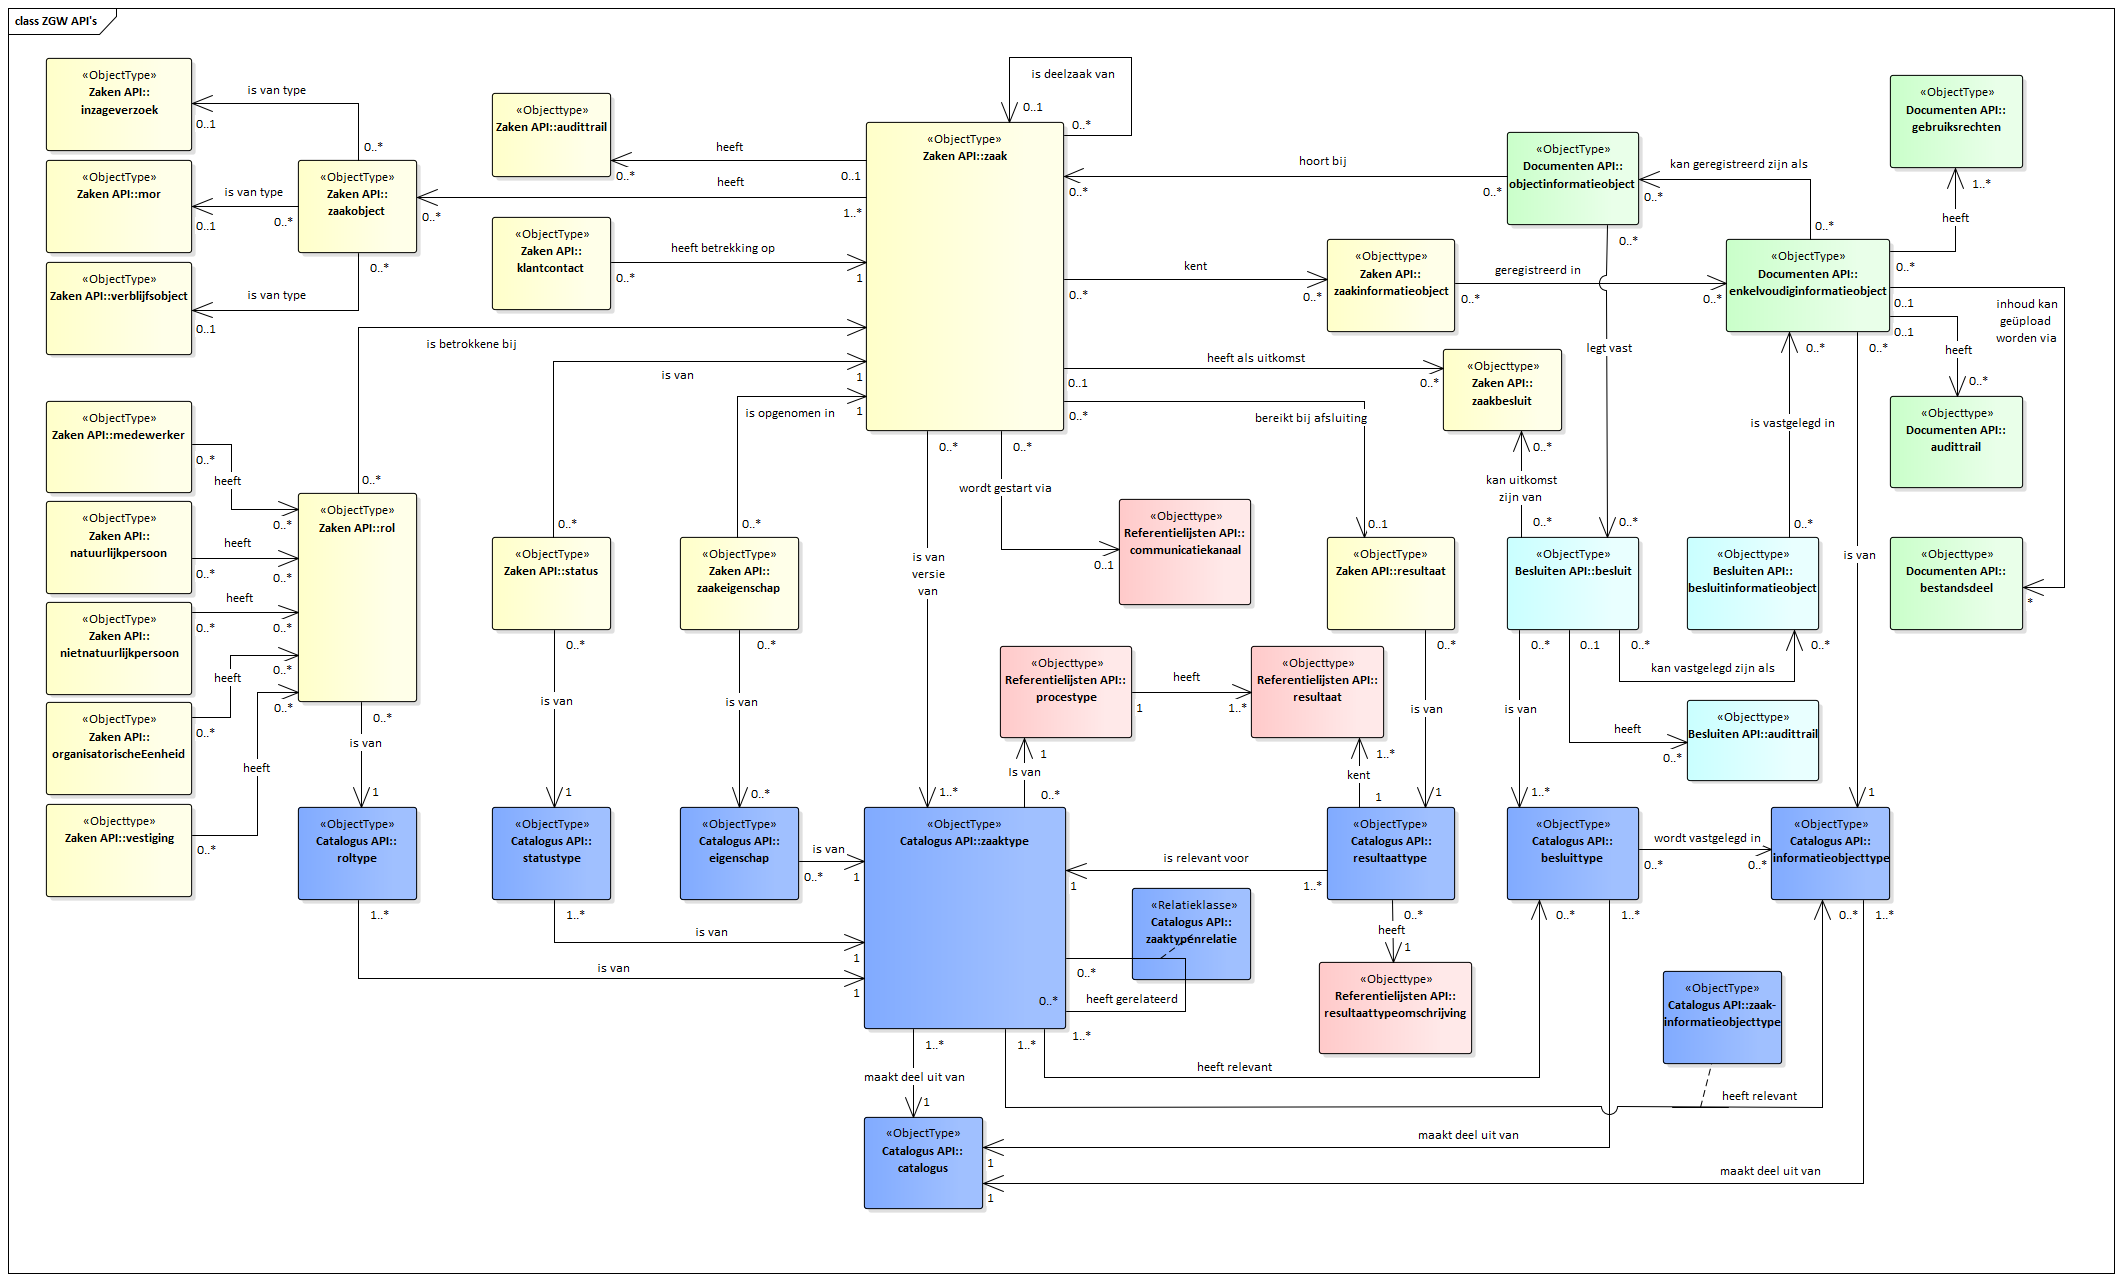
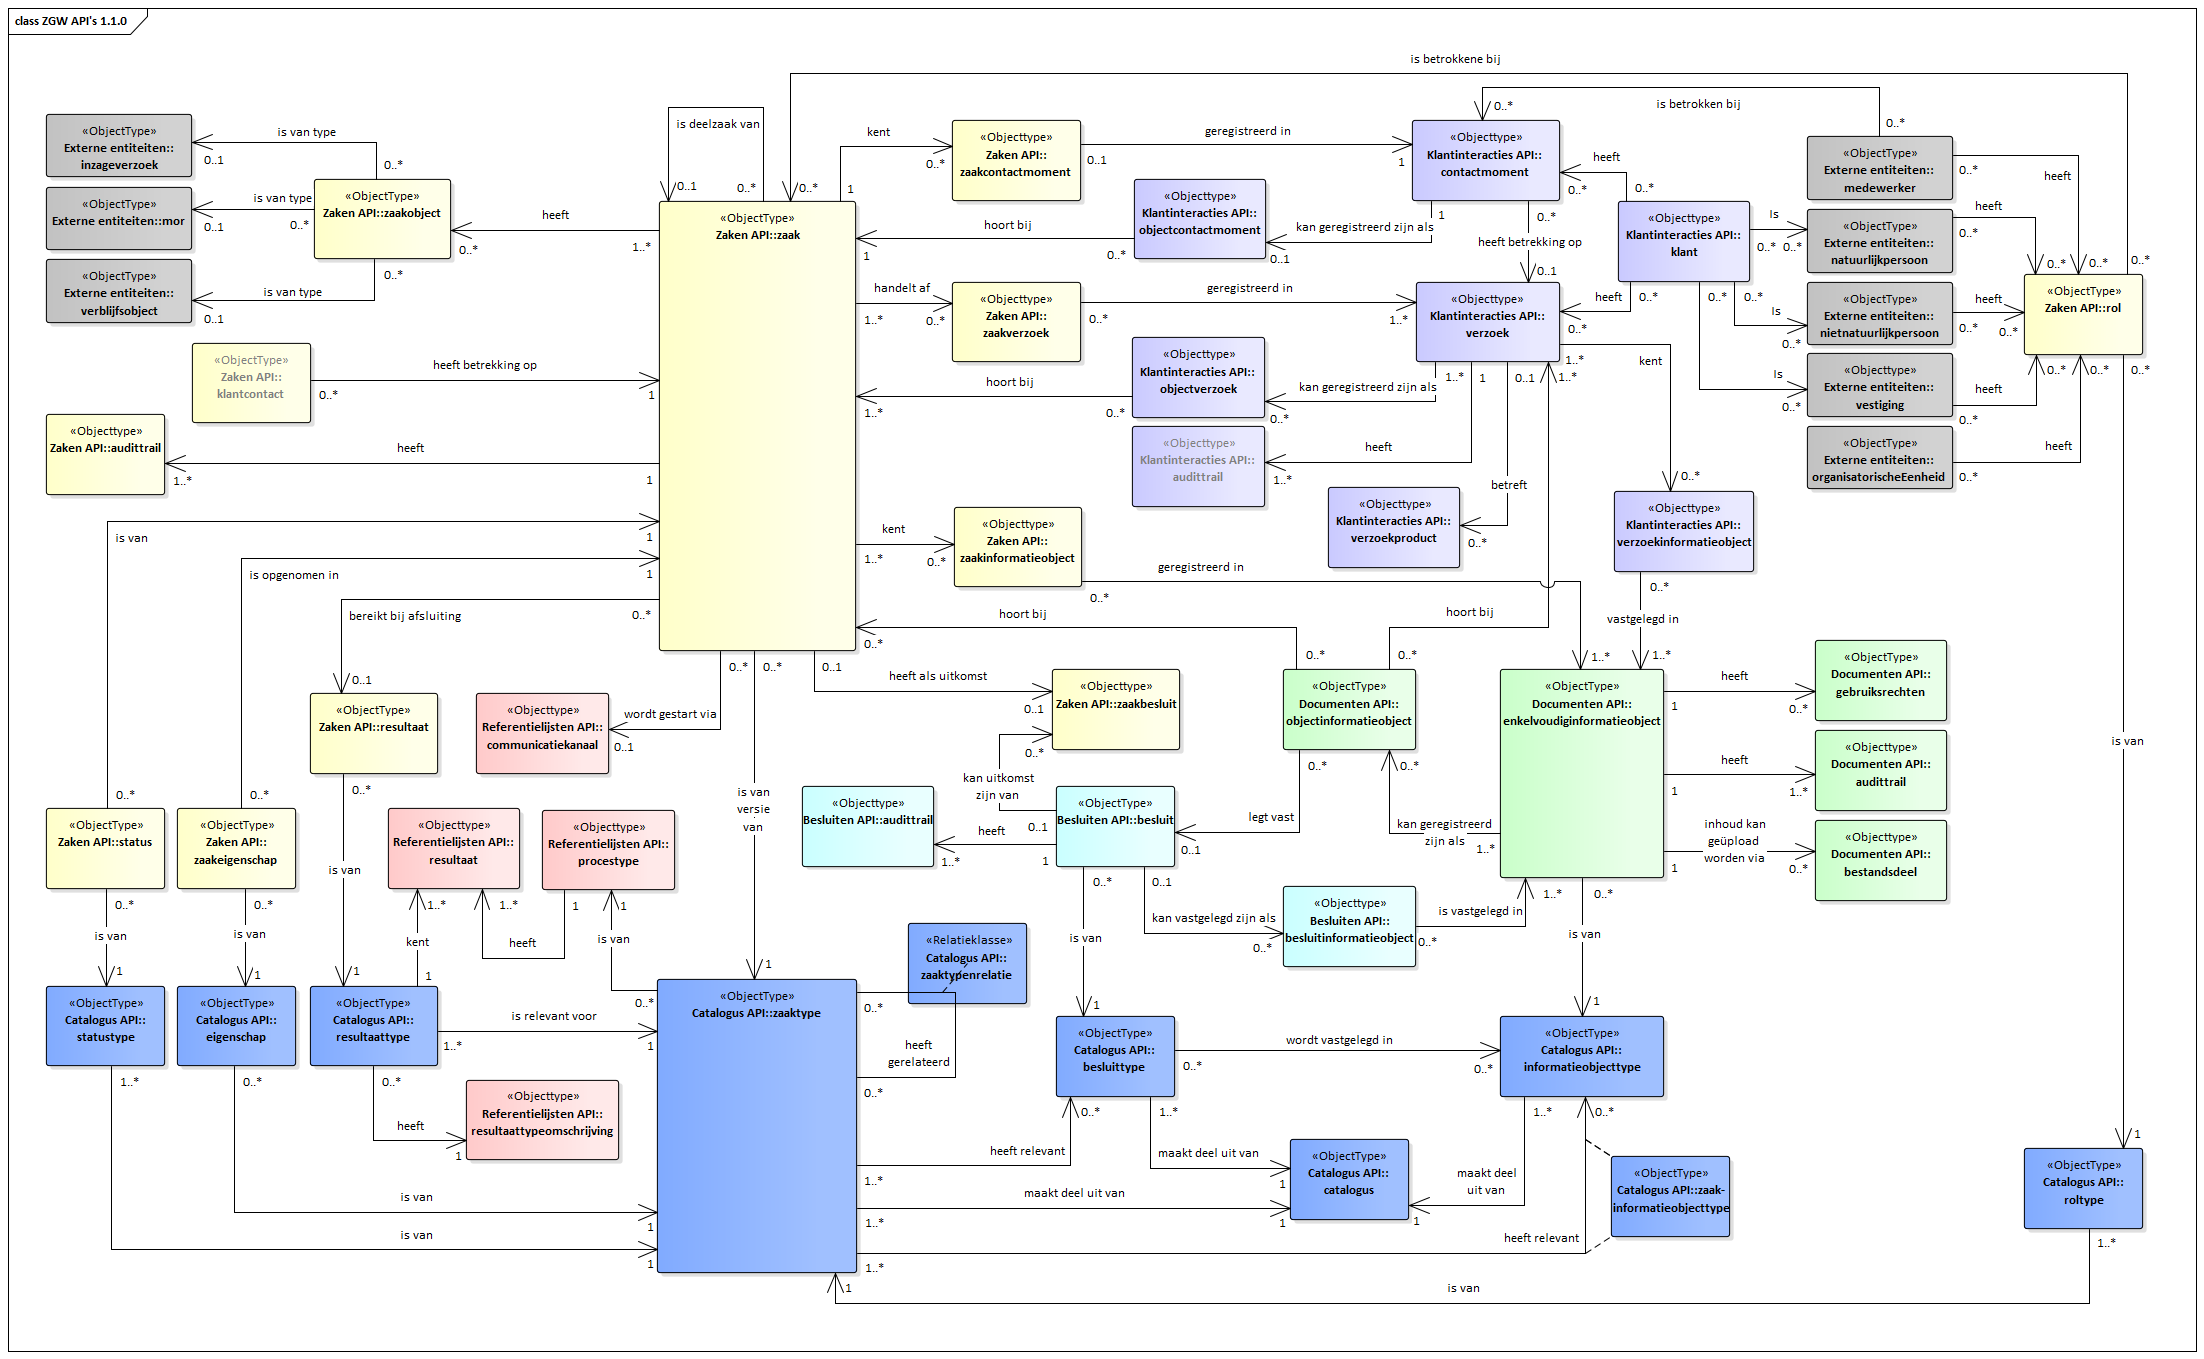
:sparkle: Added documentation on Klantinteracties API.

diff --git a/docs/_content/standaard/klantinteracties/index.md b/docs/_content/standaard/klantinteracties/index.md
@@ -4,6 +4,122 @@ date: '08-11-2019'
 weight: 10
 ---
 
-API voor het opslaan en ontsluiten van klantinteractiegegevens.
+*Work in progress*
 
-TODO
+De Klantinteractie API ondersteunt het opslaan en ontsluiten van contactmomenten en verzoeken. De component slaat deze gestructureerd op en stelt applicaties in staat deze te wijzigen en te verwijderen.
+
+
+## Gegevensmodel
+
+He gegevensmodel modelleert zowel Contactmomenten als Verzoeken aangezien deze zijn opgenomen in één API.
+
+[![Gegevensmodel Klantinteracties API](Klantinteracties API 1.0.0.png){:width="1200px"}](Klantinteracties API 1.0.0.png "Klantinteracties gegevensmodel - klik voor groot")
+
+## Contactmomenten
+
+Een contactmoment is een aaneengesloten periode waarbij interactief informatie wordt uitgewisseld tussen (minimaal) 2 partijen. Eén van deze partijen is een Medewerker van de gemeente of samenwerkingsverband en tenminste één Natuurlijk Persoon, eventueel in de rol van medewerker of vertegenwoordiger van (een Vestiging van) een Niet-Natuurlijk Persoon.  De gegevens van deze vertegenwoordiger worden in eerste instantie overgenomen  van de contactpersoon van de Vestiging uit het NHR. Deze kunnen worden overschreven.
+
+Voorbeelden van een Contactmoment zijn een baliebezoek en een telefonisch contact over een onderhanden zijnde Zaak. Twee telefoongesprekken over hetzelfde verzoek om informatie zijn 2 contactmomenten.
+De Klantinteractie API bevat resources voor Klant, Contactmoment en Objectcontactmoment.
+
+### Relaties met zaken en verzoeken
+
+Een Contactmoment kan gekoppeld zijn aan één Zaak. Aan een zaak kunnen 0 of meer Contactmomenten gekoppeld worden. Dit wordt gerealiseerd via de resources Zaken API :: ZaakContactmoment en Contactmomenten API :: ObjectContactmoment, waarbij de resource ObjectContactmoment een duplicaat is van ZaakContactmoment. Dit is gelijk aan de werkwijze bij b.v. het koppelen van een Zaak aan een Besluit.
+
+Een Contactmoment kan betrekking hebben op een Verzoek.
+
+### Relatie met klanten
+
+De Klant kan anoniem zijn wat betekent dat Klant een optionele relatie heeft met Contactmoment. Klanten kunnen natuurlijke personen en niet-natuurlijke personen zijn.
+
+
+## Verzoeken
+
+Een verzoek is een aanvraag of opdracht aan de gemeente (of andere overheid) voor de levering van een product of dienst. Verzoeken vormen dus de schakel tussen de klant, producten en diensten van de gemeente zoals in de PDC staan, en het zaakgericht werken voor de afhandeling. Het concept verzoeken is voor het eerst geintroduceerd in GFO Zaken, maar had in het opvolgende informatiemodel RGBZ geen plaats. In de visie van VNG Realisatie is dat echter een omissie (redenen zijn hieronder gegeven), en daarom is er behoefte aan een concept dat vooraf gaat aan de daadwerkelijke behandeling in een zaak (of andere activiteit).
+Met verzoeken introduceren we een nieuw concept in het zaakgericht werken. Voor het bepalen van de functionaliteit die een eerste implementatie van de API moet bieden, gaan we uit van de ingediende user stories en andere/eerdere implementaties van het begrip 'verzoeken' (zie de bronnenlijst onderaan). Op basis daarvan kan een eerste set ontwerpbeslissingen en uitgangspunten worden opgesteld. Die zijn in dit document beschreven. Tegelijkertijd zijn over de precieze verhouding tussen 'verzoeken' en een aantal andere concepten in het zaakgericht werken, met name 'zaak' en 'contactmoment', nog een aantal vragen te beantwoorden (zie relaties/kardinaliteiten hieronder). Mogelijk wordt de Klantinteractie API naar aanleiding daarvan in de toekomst uitgebreid.
+ 
+### Relatie met zaken en informatieobjecten
+
+Een verzoek kan resulteren in één of meerdere zaken of andere activiteiten (d.w.z. niet-zaakgericht), dan wel direct worden afgehandeld, bijvoorbeeld door levering van een informatiebrochure na aanvraag daarvan. Bovendien kan een verzoek worden gekoppeld aan een reeds lopende zaak.
+ 
+Een verzoek kan bijlagen hebben in de vorm van informatieobjecten. Een informatieobject heeft altijd betrekking op slechts één verzoek. 
+ 
+### Relatie met klanten
+
+Net als bij Contactmomenten is de relatie met klanten optioneel. Denk bijv. aan een Melding Openbare Ruimte.
+
+
+## Specificatie van de Klantinteracties API
+
+* [Referentie-implementatie Klantinteracties API](https://klantinteracties-api.vng.cloud)
+* API specificatie (OAS3) in
+  [ReDoc](https://klantinteracties-api.vng.cloud/api/v1/schema/),
+  [Swagger](https://petstore.swagger.io/?url=https://klantinteracties-api.vng.cloud/api/v1/schema/openapi.yaml),
+  [YAML](https://klantinteracties-api.vng.cloud/api/v1/schema/openapi.yaml) of
+  [JSON](https://klantinteracties-api.vng.cloud/api/v1/schema/openapi.json)
+
+
+## Specificatie van gedrag
+
+Klantinteractiecomponenten (KIC) MOETEN aan twee aspecten voldoen:
+
+* de KIC `openapi.yaml` MOET volledig geïmplementeerd zijn.
+
+* het run-time gedrag beschreven in deze standaard MOET correct geïmplementeerd
+  zijn.
+
+### OpenAPI specificatie
+
+Alle operaties beschreven in [`openapi.yaml`](../../../api-specificatie/kic/1.0.x/openapi.yaml)
+MOETEN ondersteund worden en tot hetzelfde resultaat leiden als de
+referentie-implementatie van het KIC.
+
+Het is NIET TOEGESTAAN om gebruik te maken van operaties die niet beschreven
+staan in deze OAS spec, of om uitbreidingen op operaties in welke vorm dan ook
+toe te voegen.
+
+### Run-time gedrag
+
+Bepaalde gedrageningen kunnen niet in een OAS spec uitgedrukt worden omdat ze
+businesslogica bevatten. Deze gedragingen zijn hieronder beschreven en MOETEN
+zoals beschreven geïmplementeerd worden.
+
+#### **<a name="kic-001">Synchroniseren relaties met informatieobjecten ([kic-001](#kic-001))</a>**
+
+Wanneer een relatie tussen een `INFORMATIEOBJECT` en een `VERZOEK` gemaakt
+of bijgewerkt wordt, dan MOET het KIC in het DRC ook deze relatie
+aanmaken/bijwerken.
+
+Een voorbeeld:
+
+1. Een informatieobject wordt gerelateerd aan een verzoek door een consumer:
+
+    ```http
+    POST https://kic.nl/api/v1/verzoekinformatieobjecten HTTP/1.0
+
+    {
+        "informatieobject": "https://drc.nl/api/v1/enkelvoudigeinformatieobjecten/1234",
+        "verzoek": "https://kic.nl/api/v1/verzoek/456789"
+    }
+    ```
+
+2. Het KIC MOET de relatie spiegelen in het DRC:
+
+    ```http
+    POST https://drc.nl/api/v1/objectinformatieobjecten HTTP/1.0
+
+    {
+        "informatieobject": "https://drc.nl/api/v1/enkelvoudigeinformatieobjecten/1234",
+        "object": "https://kic.nl/api/v1/verzoeken/456789",
+        "objectType": "verzoek",
+
+    }
+    ```
+
+Merk op dat het aanmaken van de relatie niet gelimiteerd is tot het aanmaken
+via de API. Indien elders (bijvoorbeeld via een admininterface) een relatie tot
+stand kan komen, dan MOET deze ook gesynchroniseerd worden.
+
+## Overige documentatie
+
+* [Achtergrond informatie bij Verzoeken](/themas/achtergronddocumentatie/verzoeken)

diff --git a/docs/_content/standaard/zaken/index.md b/docs/_content/standaard/zaken/index.md
@@ -42,7 +42,10 @@ Een informatieobject kan tot meer dan één zaak behoren en een zaak kan meer da
 Een zaak, met eventuele deelzaken dan wel de verwijzing naar de hoofdzaak, alle kenmerken, alle daaraan gerelateerde Informatieobjecten en alle andere gerelateerde gegevens (via rol, zaakobject, etc.) vormen gezamenlijk het zaakdossier.
 
 
-[![Gegevensmodel Zaken API](Zaken API.png){:width="1200px"}](Zaken API.png "Zaken gegevensmodel - klik voor groot")
+[![Gegevensmodel Zaken API 1.0.0](Zaken API.png){:width="1200px"}](Zaken API.png "Zaken gegevensmodel - klik voor groot")
+
+[![Gegevensmodel Zaken API 1.1.0](Zaken API 1.1.0.png){:width="1200px"}](Zaken API 1.1.0.png "Zaken gegevensmodel - klik voor groot")
+
 
 ### Zaakcontactmomenten
 
@@ -466,7 +469,57 @@ provider een normale `HTTP 200` response sturen.
 
 #### TODO: synchroniseren zaakcontactmomenten
 
-TODO
+
+
+#### **<a name="zrc-024">Synchroniseren relaties met verzoeken ([zrc-024](#zrc-024))</a>**
+
+<span style="padding: 0.2em 0.5em; border: solid 1px #EEEEEE; border-radius: 3px; background: #DDDFFF;">
+    <strong>Nieuw in versie 1.1.0</strong>
+</span>
+
+Wanneer een relatie tussen een `VERZOEK` en een `ZAAK` gemaakt
+of bijgewerkt wordt, dan MOET het ZRC in het KIC ook deze relatie
+aanmaken/bijwerken.
+
+Een voorbeeld:
+
+1. Een verzoek wordt gerelateerd aan een zaak door een consumer:
+
+    ```http
+    POST https://zrc.nl/api/v1/zaakverzoeken HTTP/1.0
+
+    {
+        "verzoek": "https://kic.nl/api/v1/verzoeken/1234",
+        "zaak": "https://zrc.nl/api/v1/zaken/456789",
+    }
+    ```
+
+2. Het ZRC MOET de relatie spiegelen in het KIC:
+
+    ```http
+    POST https://kic.nl/api/v1/objectverzoeken HTTP/1.0
+
+    {
+        "verzoek": "https://kic.nl/api/v1/verzoeken/1234",
+        "object": "https://zrc.nl/api/v1/zaken/456789",
+        "objectType": "zaak"
+    }
+    ```
+
+Merk op dat het aanmaken van de relatie niet gelimiteerd is tot het aanmaken
+via de API. Indien elders (bijvoorbeeld via een admininterface) een relatie tot
+stand kan komen, dan MOET deze ook gesynchroniseerd worden.
+
+#### **<a name="zrc-025">Synchroniseren relaties met contactmomenten ([zrc-025](#zrc-025))</a>**
+
+<span style="padding: 0.2em 0.5em; border: solid 1px #EEEEEE; border-radius: 3px; background: #DDDFFF;">
+    <strong>Nieuw in versie 1.1.0</strong>
+</span>
+
+Wanneer een relatie tussen een `CONTACTMOMENT` en een `ZAAK` gemaakt
+of bijgewerkt wordt, dan MOET het ZRC in het KIC ook deze relatie
+aanmaken/bijwerken.
+
 
 ## Overige documentatie
 

diff --git a/docs/_content/standaard/documenten/index.md b/docs/_content/standaard/documenten/index.md
@@ -41,7 +41,9 @@ Afhankelijk van de omvang van het bestand wordt de inhoud van het informatieobje
 
 Alle informatieobjecten van de zaak vormen het zaakarchief, de informatieobjecten en zaakkenmerken samen vormen het zaakdossier.
 
-[![Gegevensmodel Documenten API](Documenten API.png)](Documenten API.png "Documenten gegevensmodel - klik voor groot")
+[![Gegevensmodel Documenten API 1.0.0](Documenten API.png)](Documenten API.png "Documenten gegevensmodel - klik voor groot")
+
+[![Gegevensmodel Documenten API 1.1.0](Documenten API 1.1.0.png)](Documenten API 1.1.0.png "Documenten gegevensmodel - klik voor groot")
 
 
 ## Specificatie van de Documenten API

diff --git a/docs/_content/themas/index.md b/docs/_content/themas/index.md
@@ -25,3 +25,4 @@ Bij de ontwikkeling van de API's zijn over sommige thema's notities opgesteld om
 * [Notificeren](../themas/achtergronddocumentatie/notificaties)
 * [Audit trail](../themas/achtergronddocumentatie/audit-trail)
 * [Grenzen van het gegevenslandschap: omgang met betrokkenen en zaakobjecten](../themas/achtergronddocumentatie/zgw-api-landschap-grenzen)
+* [Verzoeken](../themas/achtergronddocumentatie/verzoeken)
